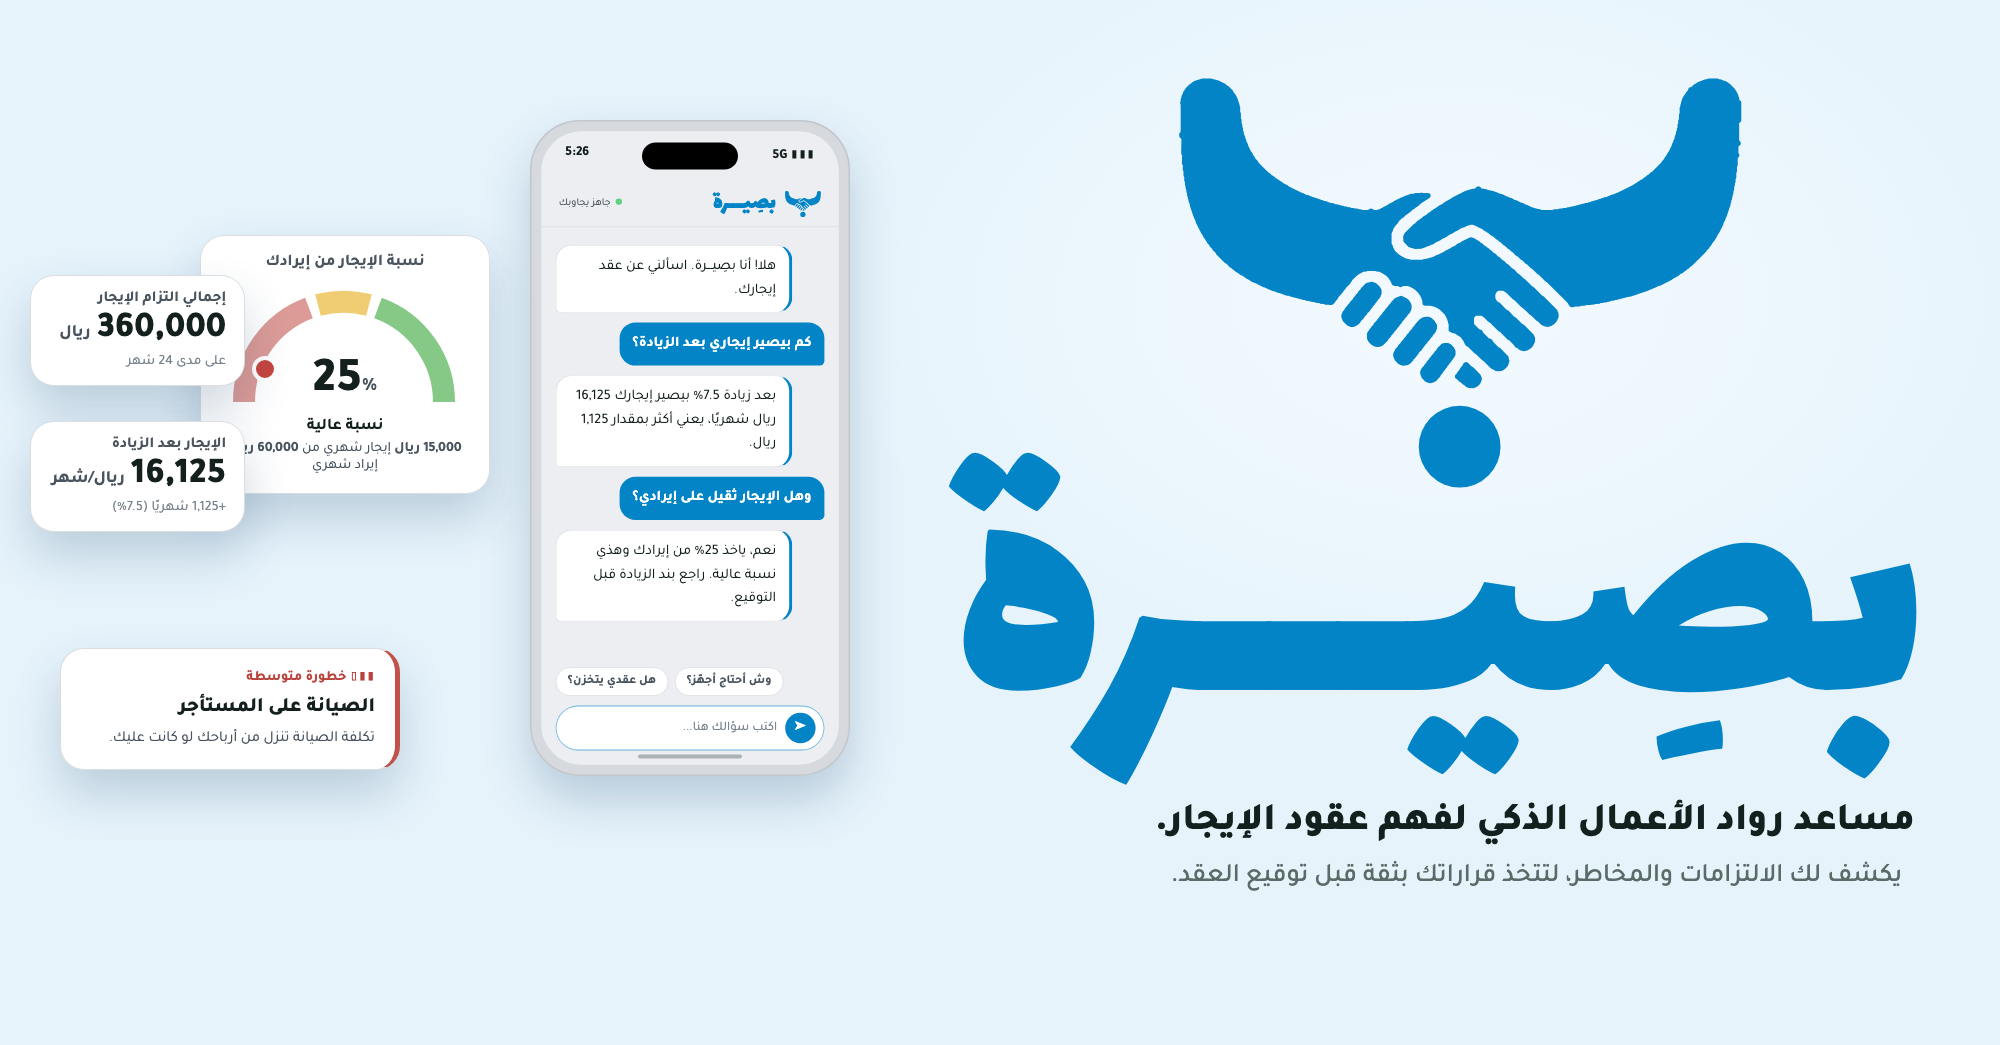
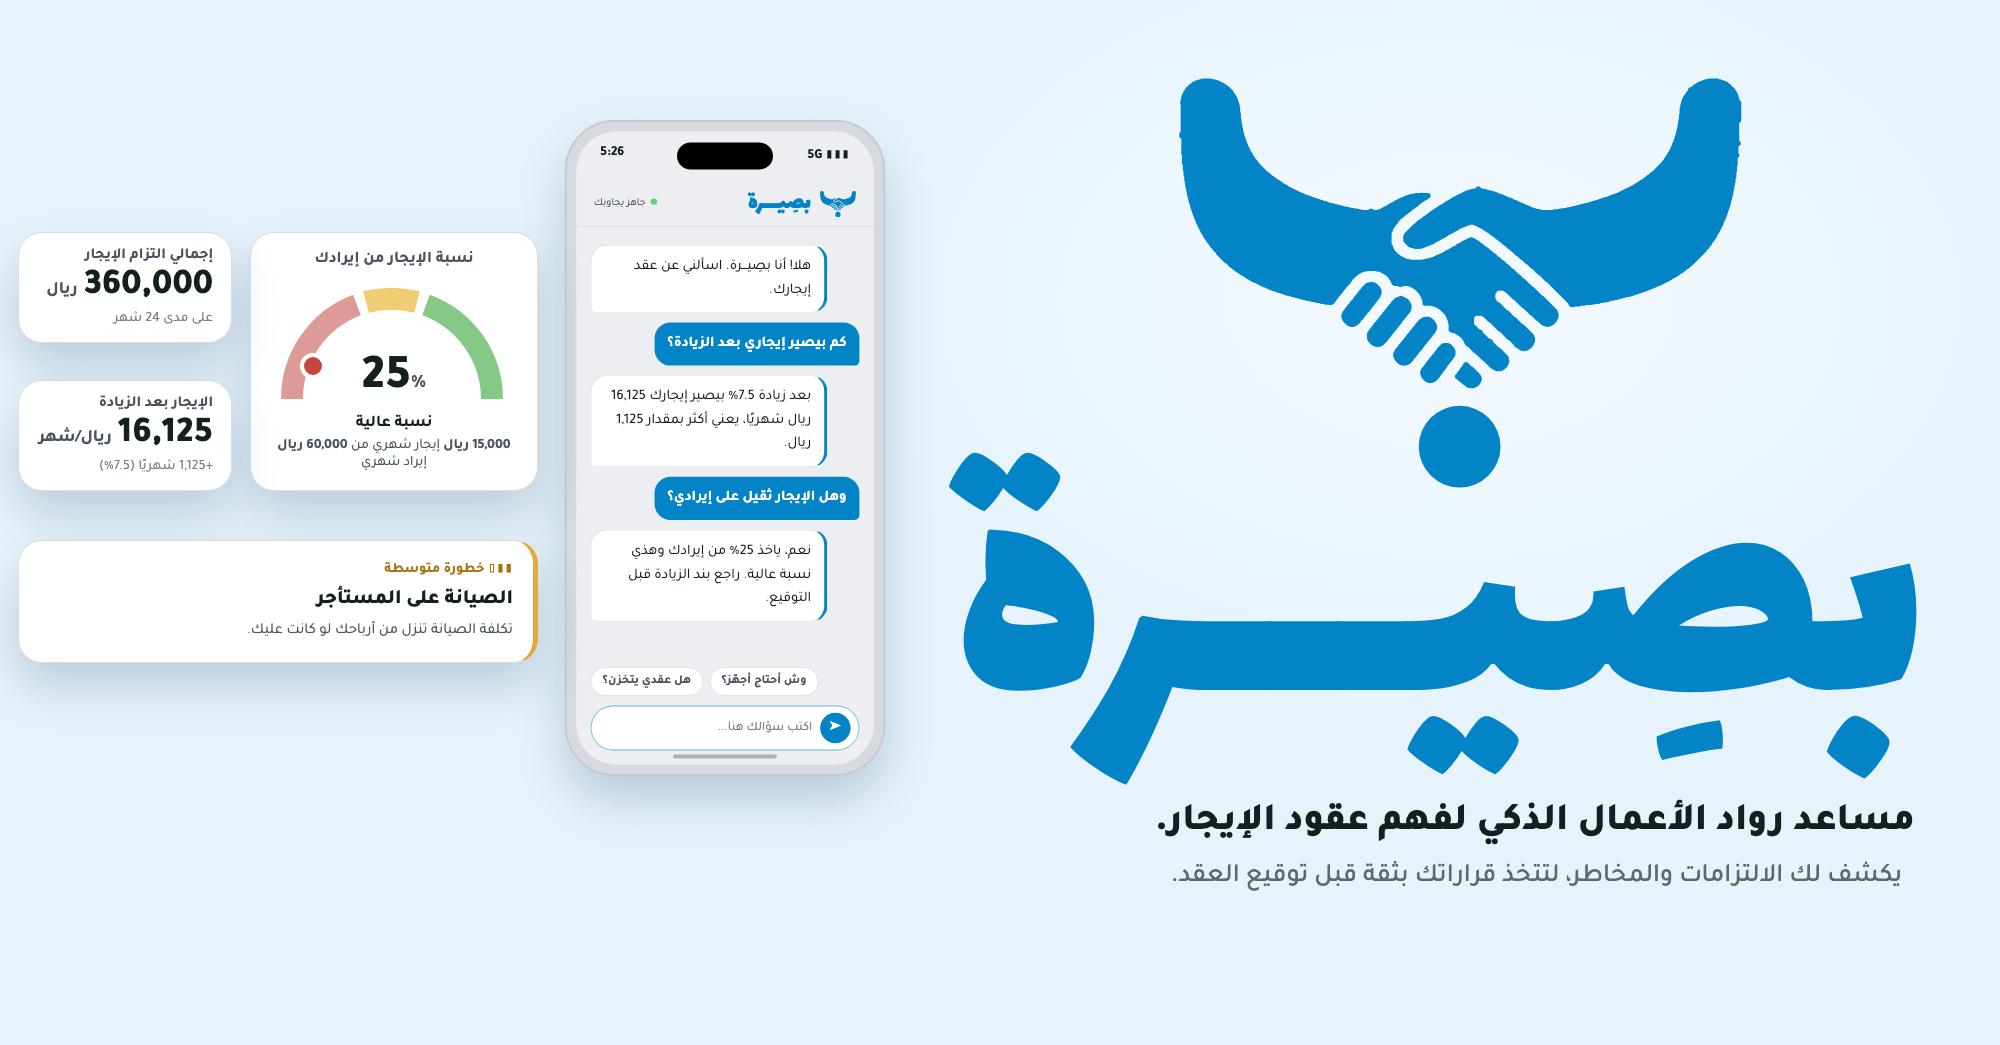
البوستر: بطاقات التقرير جنب بعض بدون تداخل، وخطورة متوسطة بالأصفر

Changed region(s): [[0.0, 0.0919, 0.465, 0.7656], [0.248, 0.0919, 0.341, 0.1837]]

diff --git a/docs/poster/basira-poster.html b/docs/poster/basira-poster.html
@@ -40,8 +40,8 @@ html, body { width: 2000px; height: 1045px; background: var(--mint); font-family
 .pct small { font-size: 20px; font-weight: 700; color: var(--ink2); }
 .sev { text-align:center; font-size: 16px; font-weight: 700; margin: 6px 0 4px; color: var(--ink-d); }
 .sub2 { text-align:center; font-size: 14px; color: var(--ink2); }
-.risk { border-inline-start: 5px solid #c0524a; }
-.risk .chip { display:inline-flex; gap:8px; align-items:center; font-size: 14px; font-weight: 700; color:#b8443d; }
+.risk { border-inline-start: 5px solid #e2a93b; }
+.risk .chip { display:inline-flex; gap:8px; align-items:center; font-size: 14px; font-weight: 700; color:#a8730f; }
 .risk h5 { font-size: 20px; font-weight: 800; margin: 6px 0 4px; line-height: 1.4; }
 .risk p { font-size: 14px; color: var(--ink2); line-height: 1.7; }
 
@@ -59,13 +59,13 @@ html, body { width: 2000px; height: 1045px; background: var(--mint); font-family
 .hsub { font-size: 13px; color: var(--ink2); }
 .home { position:absolute; bottom: 8px; left: 50%; transform: translateX(-50%); width: 130px; height: 5px; border-radius: 3px; background: #9aa1a9; opacity:.8; }
 
-.cl { position:absolute; width: 460px; height: 535px; }
+.cl { position:absolute; width: 520px; height: 440px; }
 .cl .fcard { position:absolute; }
-.cl .g { right: 0; top: 0; width: 290px; z-index: 3; }
-.cl .s1 { left: 0; top: 40px; width: 215px; z-index: 4; padding: 14px 18px; }
-.cl .s2 { left: 0; top: 186px; width: 215px; z-index: 4; padding: 14px 18px; }
+.cl .g { left: 232px; top: 0; width: 288px; z-index: 3; }
+.cl .s1 { left: 0; top: 0; width: 214px; z-index: 3; padding: 14px 18px; }
+.cl .s2 { left: 0; top: 148px; width: 214px; z-index: 3; padding: 14px 18px; }
 .cl .s1 .big, .cl .s2 .big { font-size: 36px; }
-.cl .r { left: 30px; bottom: 0; width: 340px; z-index: 5; }
+.cl .r { left: 0; top: 308px; bottom: auto; width: 520px; z-index: 3; }
 .cl .r h5 { font-size: 20px; }
 .pw { position:absolute; transform-origin: 0 0; }
 .pw .phone { box-shadow: 0 30px 60px rgba(20,60,100,.22), 0 0 0 2px #c3c8ce inset; }
@@ -86,7 +86,7 @@ html, body { width: 2000px; height: 1045px; background: var(--mint); font-family
   <div class="sub">يكشف لك الالتزامات والمخاطر، لتتخذ قراراتك بثقة قبل توقيع العقد.</div>
 
   <!-- جوال 1: التقرير -->
-  <div class="cl" style="left: 30px; top: 235px;">
+  <div class="cl" style="left: 18px; top: 232px;">
   <div class="fcard g"><h4>نسبة الإيجار من إيرادك</h4>
     <svg class="gauge" viewBox="0 0 250 135"><path d="M25 125 A100 100 0 0 1 90 31" fill="none" stroke="#dc9b97" stroke-width="22"/><path d="M99 28 A100 100 0 0 1 150 28" fill="none" stroke="#f0cd72" stroke-width="22"/><path d="M159 31 A100 100 0 0 1 225 125" fill="none" stroke="#86c987" stroke-width="22"/><circle cx="46" cy="92" r="11" fill="#c8453f" stroke="#ffffff" stroke-width="4"/></svg>
     <div class="pct">25<small>%</small></div><div class="sev">نسبة عالية</div>
@@ -94,7 +94,7 @@ html, body { width: 2000px; height: 1045px; background: var(--mint); font-family
   <div class="fcard s1"><div class="lbl">إجمالي التزام الإيجار</div><div class="big">360,000<small>ريال</small></div><div class="note">على مدى 24 شهر</div></div>
   <div class="fcard s2"><div class="lbl">الإيجار بعد الزيادة</div><div class="big">16,125<small>ريال/شهر</small></div><div class="note">+1,125 شهريًا (7.5%)</div></div>
   <div class="fcard risk r"><span class="chip">▮▮▯ خطورة متوسطة</span><h5>الصيانة على المستأجر</h5><p>تكلفة الصيانة تنزل من أرباحك لو كانت عليك.</p></div>
-</div><div class="pw" style="left: 530px; top: 120px; transform: scale(.8);"><div class="phone" style="left: 0px; top: 0px;">
+</div><div class="pw" style="left: 565px; top: 120px; transform: scale(.8);"><div class="phone" style="left: 0px; top: 0px;">
     <div class="scr">
       <div class="island"></div>
       <div class="status"><span>5:26</span><span>5G ▮▮▮</span></div>
